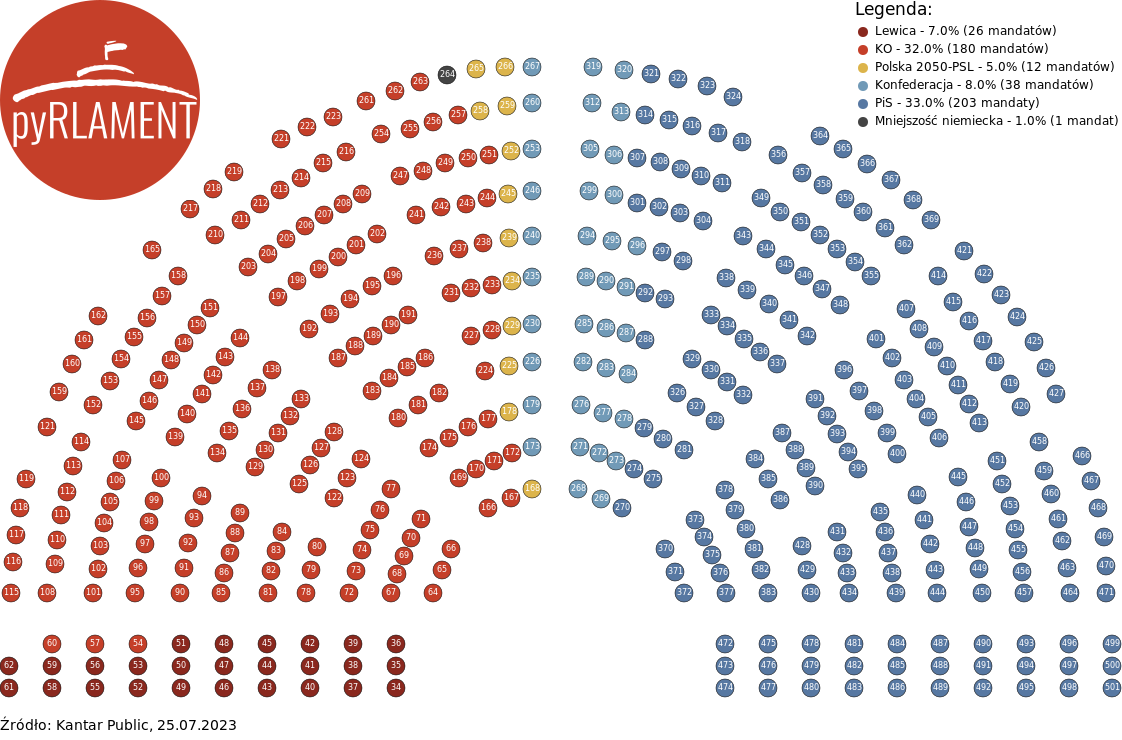
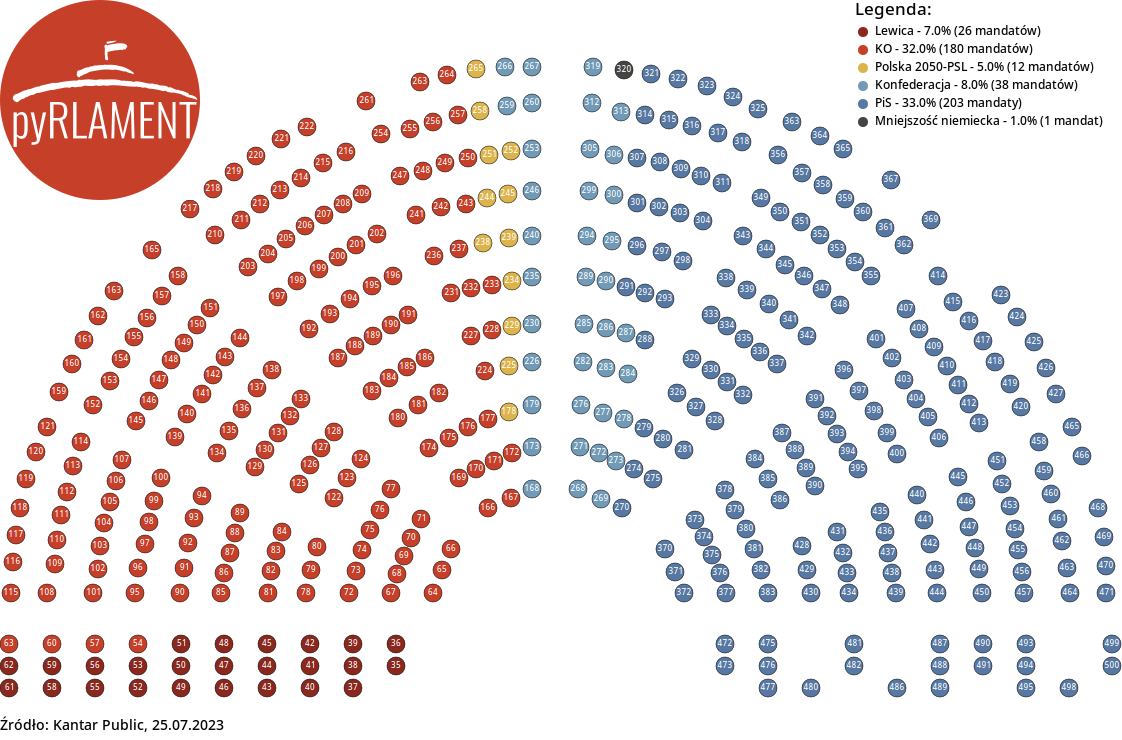
0.4.7 - "fixing" a bug in generator

diff --git a/pyrlament/generator.py b/pyrlament/generator.py
@@ -334,10 +334,12 @@ class SeatsGenerator:
     def _colorize_seats(self, seat_map):
         self._generate_seats_order()
         for y in range(0, len(seat_map)):
-            real_y = self._get_seat_by_sequence(y)
-            if real_y and real_y in self.seats:
-                seat = self.seats[real_y]
-                self._set_seat_color(seat, seat_map[y])
+            if real_y := self._get_seat_by_sequence(y):
+                try:
+                    seat = self.seats[real_y]
+                    self._set_seat_color(seat, seat_map[y])
+                except IndexError:
+                    pass
 
     def colorize(self):
         german_minority, parties = self._get_parties_and_german_minority()
